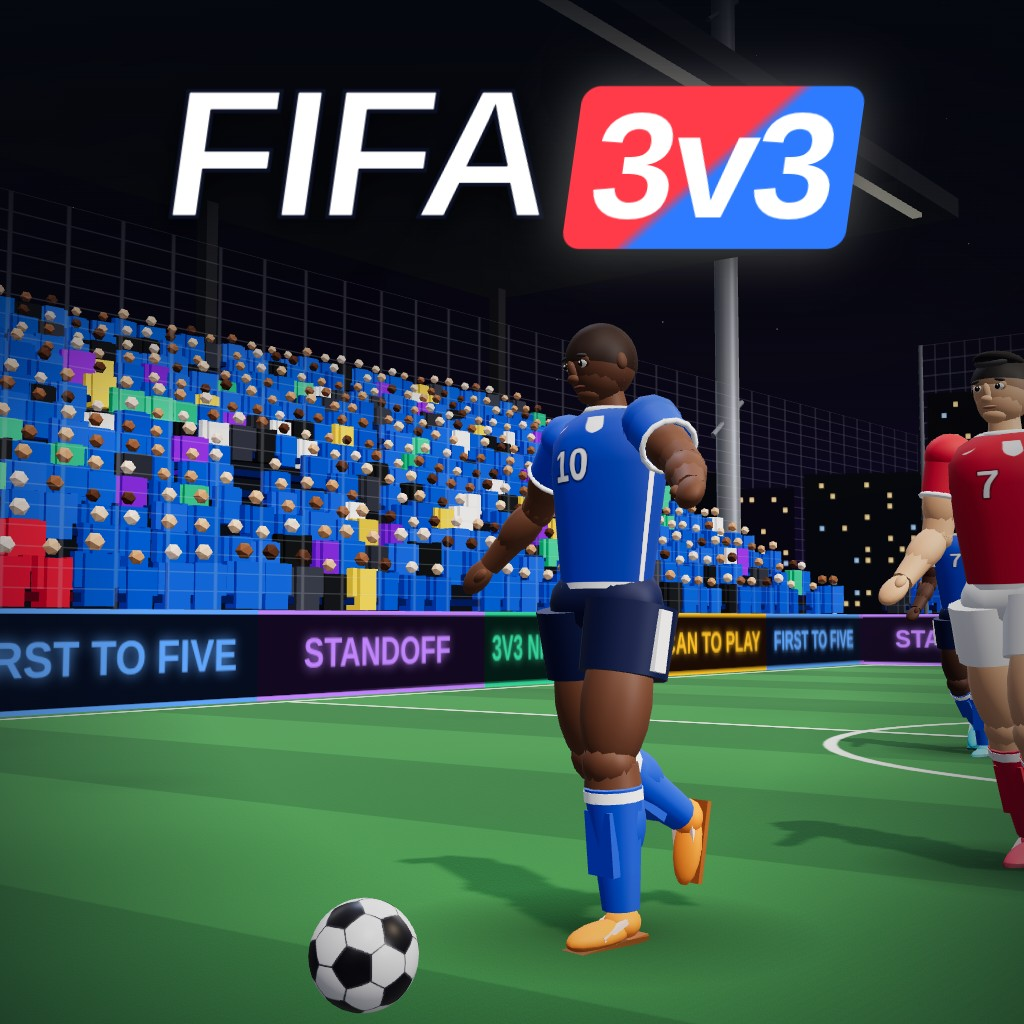
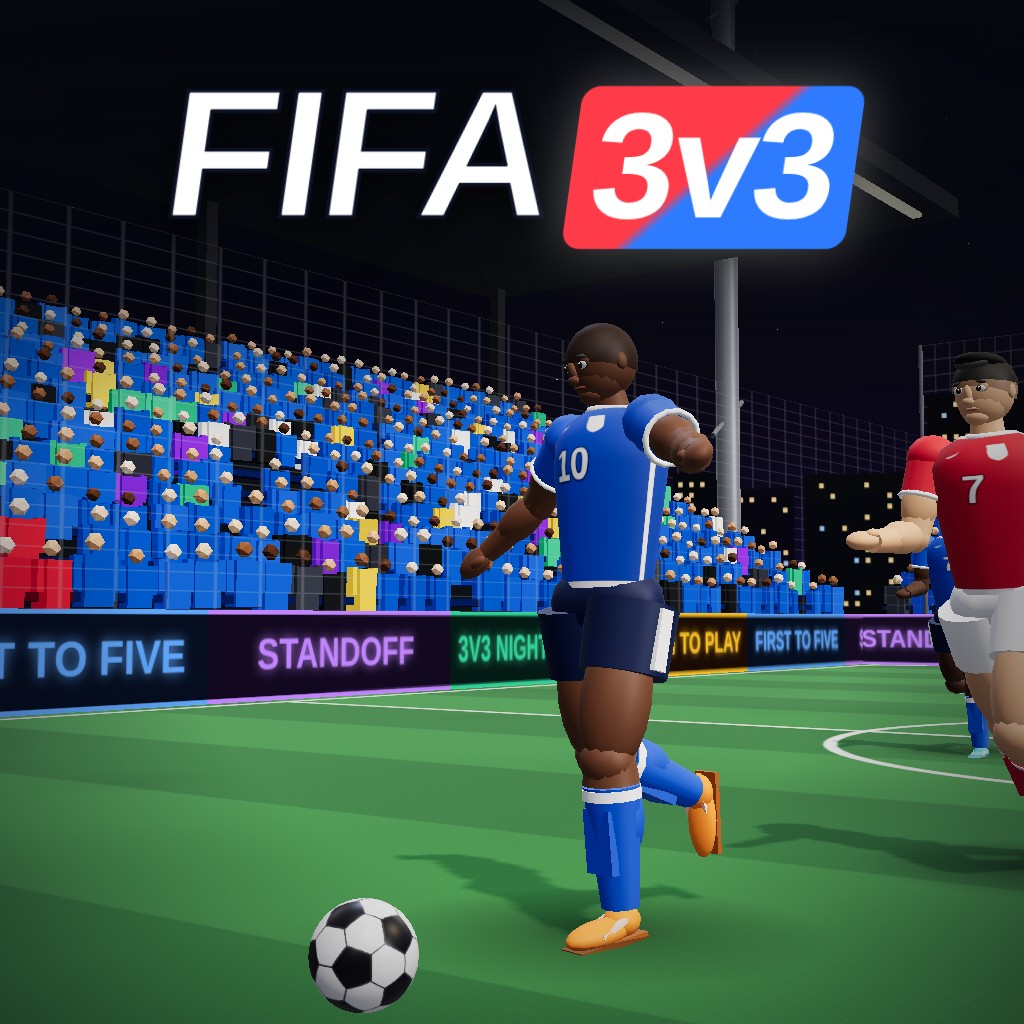
Settle FIFA 3v3 stills before drawing them
A frozen still plays its poses forward without drawing, then draws once, so the keeper is caught at full stretch. The clip films at three quarters resolution to keep each frame in time.

Claude-Session: https://claude.ai/code/session_01D1DBDL5jLRnzHEGNERorxo

diff --git a/src/games/fifa-3v3/render/match-renderer.ts b/src/games/fifa-3v3/render/match-renderer.ts
@@ -19,6 +19,8 @@ export interface RendererOptions {
    * tool renders it in software, and the video encoder softens edges anyway.
    */
   quality?: "high" | "low" | "film";
+  /** Draws at this share of the screen's resolution. The showcase's clip uses less, to film in time. */
+  scale?: number;
 }
 
 /**
@@ -37,9 +39,11 @@ export class MatchRenderer {
   private readonly environment: THREE.Texture;
   private last = 0;
   private readonly low: boolean;
+  private readonly scale: number;
 
   constructor(canvas: HTMLCanvasElement, options: RendererOptions = {}) {
     this.low = options.quality === "low";
+    this.scale = options.scale ?? 1;
     this.renderer = new THREE.WebGLRenderer({ canvas, antialias: options.quality !== "low" && options.quality !== "film", powerPreference: "high-performance" });
     this.renderer.toneMapping = THREE.ACESFilmicToneMapping;
     this.renderer.toneMappingExposure = 0.95;
@@ -59,7 +63,7 @@ export class MatchRenderer {
   }
 
   resize(width: number, height: number, dpr: number): void {
-    const ratio = this.low ? 0.6 : Math.min(dpr, 1.5);
+    const ratio = (this.low ? 0.6 : Math.min(dpr, 1.5)) * this.scale;
     this.renderer.setPixelRatio(ratio);
     this.renderer.setSize(width, height, false);
     this.director.setAspect(width / Math.max(1, height));
@@ -86,7 +90,21 @@ export class MatchRenderer {
   }
 
   draw(view: MatchView, shot: Shot, nowMs: number, focus?: THREE.Vector3, tags = true): void {
-    const dt = this.last ? Math.min(0.1, (nowMs - this.last) / 1000) : 1 / 60;
+    this.advance(view, shot, nowMs, focus, tags);
+    this.renderer.render(this.scene, this.director.camera);
+  }
+
+  /**
+   * Plays a frozen moment forward for a while without drawing, so the
+   * players' poses, which ease toward their targets, settle before a
+   * still is drawn once.
+   */
+  settle(view: MatchView, shot: Shot, nowMs: number, seconds: number, focus?: THREE.Vector3): void {
+    for (let t = 0; t < seconds; t += 1 / 30) this.advance(view, shot, nowMs - (seconds - t) * 1000, focus, false);
+  }
+
+  private advance(view: MatchView, shot: Shot, nowMs: number, focus: THREE.Vector3 | undefined, tags: boolean): void {
+    const dt = this.last ? Math.min(0.1, Math.max(0, nowMs - this.last) / 1000) : 1 / 60;
     this.last = nowMs;
     const time = nowMs / 1000;
     this.squad.update(view, dt, time, tags && shot !== "replay-end" && shot !== "replay-side");
@@ -96,7 +114,6 @@ export class MatchRenderer {
     this.effects.frame(view, dt, time);
     this.director.update(view, shot, dt, time, focus);
     this.squad.fitTags(this.director.camera.fov);
-    this.renderer.render(this.scene, this.director.camera);
   }
 
   /** Where a player stands, for the close up camera. */

diff --git a/src/games/fifa-3v3/showcase/Showcase.tsx b/src/games/fifa-3v3/showcase/Showcase.tsx
@@ -25,7 +25,10 @@ export default function Showcase({ view }: { view: ShowcaseView }) {
     stage.prepend(canvas);
     const params = new URLSearchParams(window.location.search);
     const quality = params.get("quality");
-    const renderer = new MatchRenderer(canvas, { quality: quality === "low" || quality === "high" ? quality : "film" });
+    const renderer = new MatchRenderer(canvas, { quality: quality === "low" || quality === "high" ? quality : "film",
+      // The clip is filmed a frame at a time in software; a lighter frame keeps each one in time.
+      scale: view === "loop" ? 0.75 : 1,
+    });
     // Development peeks can jump ahead in the match without drawing every frame on the way.
     const scene = new ShowcaseScene(view, Number(params.get("seek") ?? 0));
     if (scene.pose) renderer.director.setFixed(scene.pose.pos, scene.pose.look, scene.pose.fov);
@@ -49,6 +52,7 @@ export default function Showcase({ view }: { view: ShowcaseView }) {
     const loop = (now: number) => {
       const events = scene.tick(now);
       for (const event of events) renderer.onEvent(event, scene.view);
+      if (frozen && draws > 0) renderer.settle(scene.view, scene.shot, now, 1.5, scene.focus(renderer));
       if (!frozen || draws > 0) {
         renderer.draw(scene.view, scene.shot, now, scene.focus(renderer), scene.tags);
         draws--;
